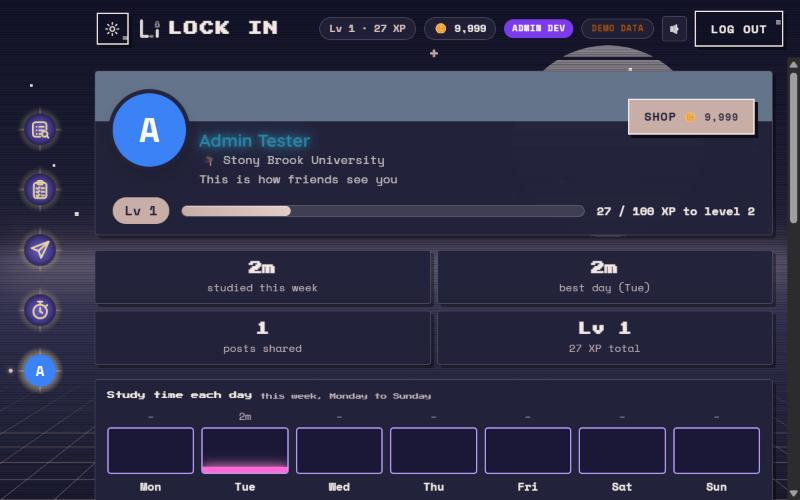
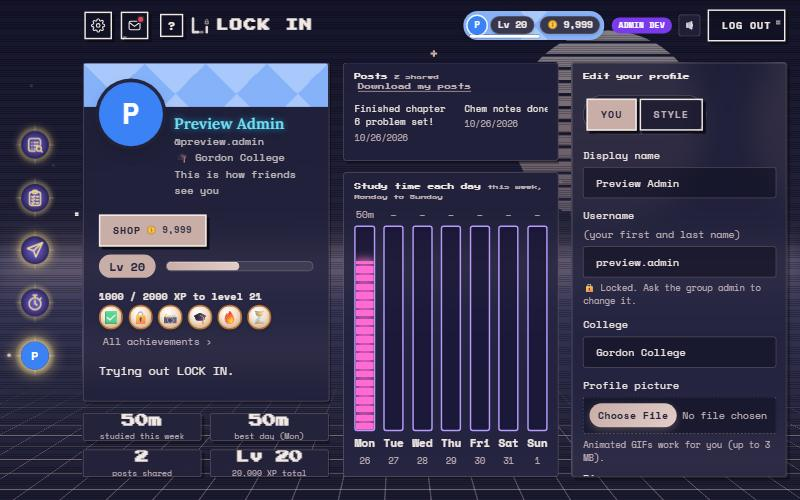
Regenerate every theme preview picture from the current app, add Old Library; test-build helper for taking them

diff --git a/src/main.jsx b/src/main.jsx
@@ -19,6 +19,21 @@ import './lib/motion.js'      // applies the saved "calm mode" before anything i
 import './lib/install.js'     // starts listening for the browser's install offer right away
 import './styles.css'
 
+// Developer helper for the test build only: http://localhost:5176/?shot=rose opens the fake account on its Profile page in that
+// theme, with no intro or pop-ups, ready to be photographed for the Shop's preview pictures. It never runs on the live site.
+if (import.meta.env.DEV && import.meta.env.VITE_FAKE_BACKEND === 'true') {
+  const m = location.search.match(/[?&]shot=([A-Za-z0-9_-]+)/)
+  if (m) {
+    try {
+      localStorage.setItem('friends-site-theme', m[1])
+      localStorage.setItem('lock-in-intro', '0')
+      localStorage.setItem('lock-in-fake-session', '1')
+    } catch { /* ignore */ }
+    location.hash = '#/profile'
+    document.documentElement.classList.add('shotmode')
+  }
+}
+
 installDragLift()
 
 // Register the service worker in production builds only (it would get in the way of dev hot reload).

diff --git a/src/styles.css b/src/styles.css
@@ -5061,3 +5061,6 @@ button.feed-section-head .caret { flex: none; }
 .shop-tab { flex: none; display: inline-flex; align-items: center; gap: .4rem; padding: .5rem .95rem; border-radius: 999px; font-weight: 700; font-size: .88rem; white-space: nowrap;
   background: var(--glass-inner); color: var(--text); border: 1px solid var(--glass-line); box-shadow: none; }
 .shop-tab.on { background: var(--accent); color: var(--on-accent); border-color: var(--accent); }
+
+/* preview-picture mode (test build only, see main.jsx): nothing but the page */
+.shotmode .tour-spot, .shotmode .tour-dim, .shotmode .tour-tip, .shotmode .install-card, .shotmode .modal-backdrop, .shotmode .toasts, .shotmode .update-notice, .shotmode .install-btn { display: none !important; }
